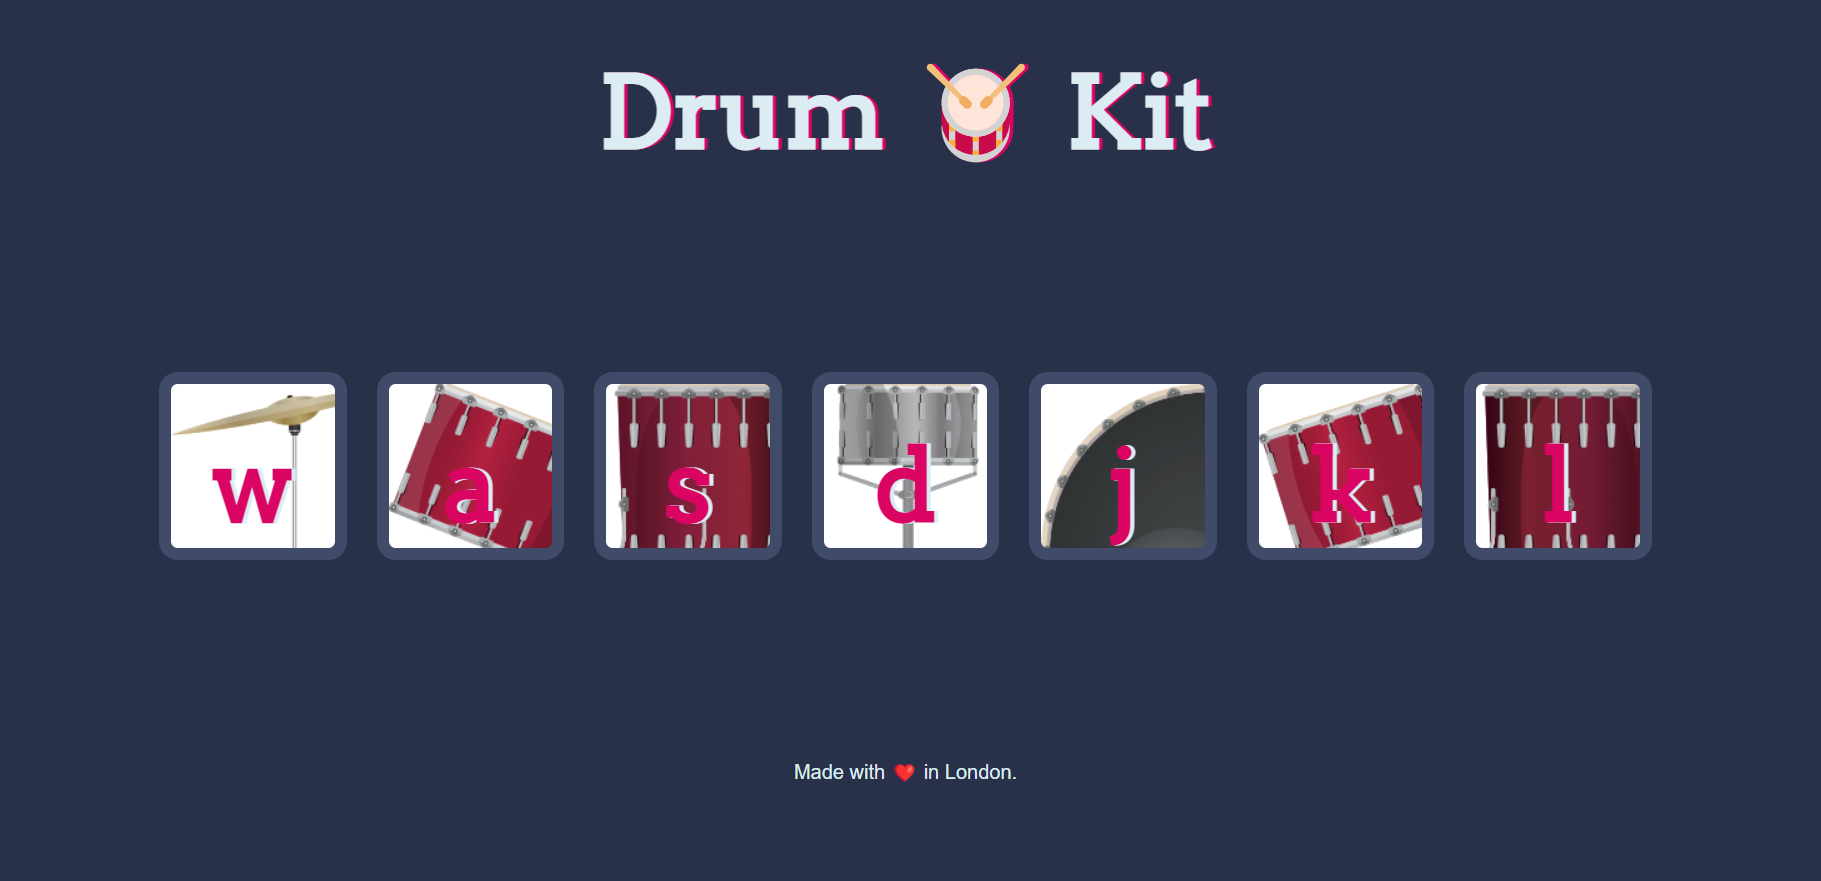
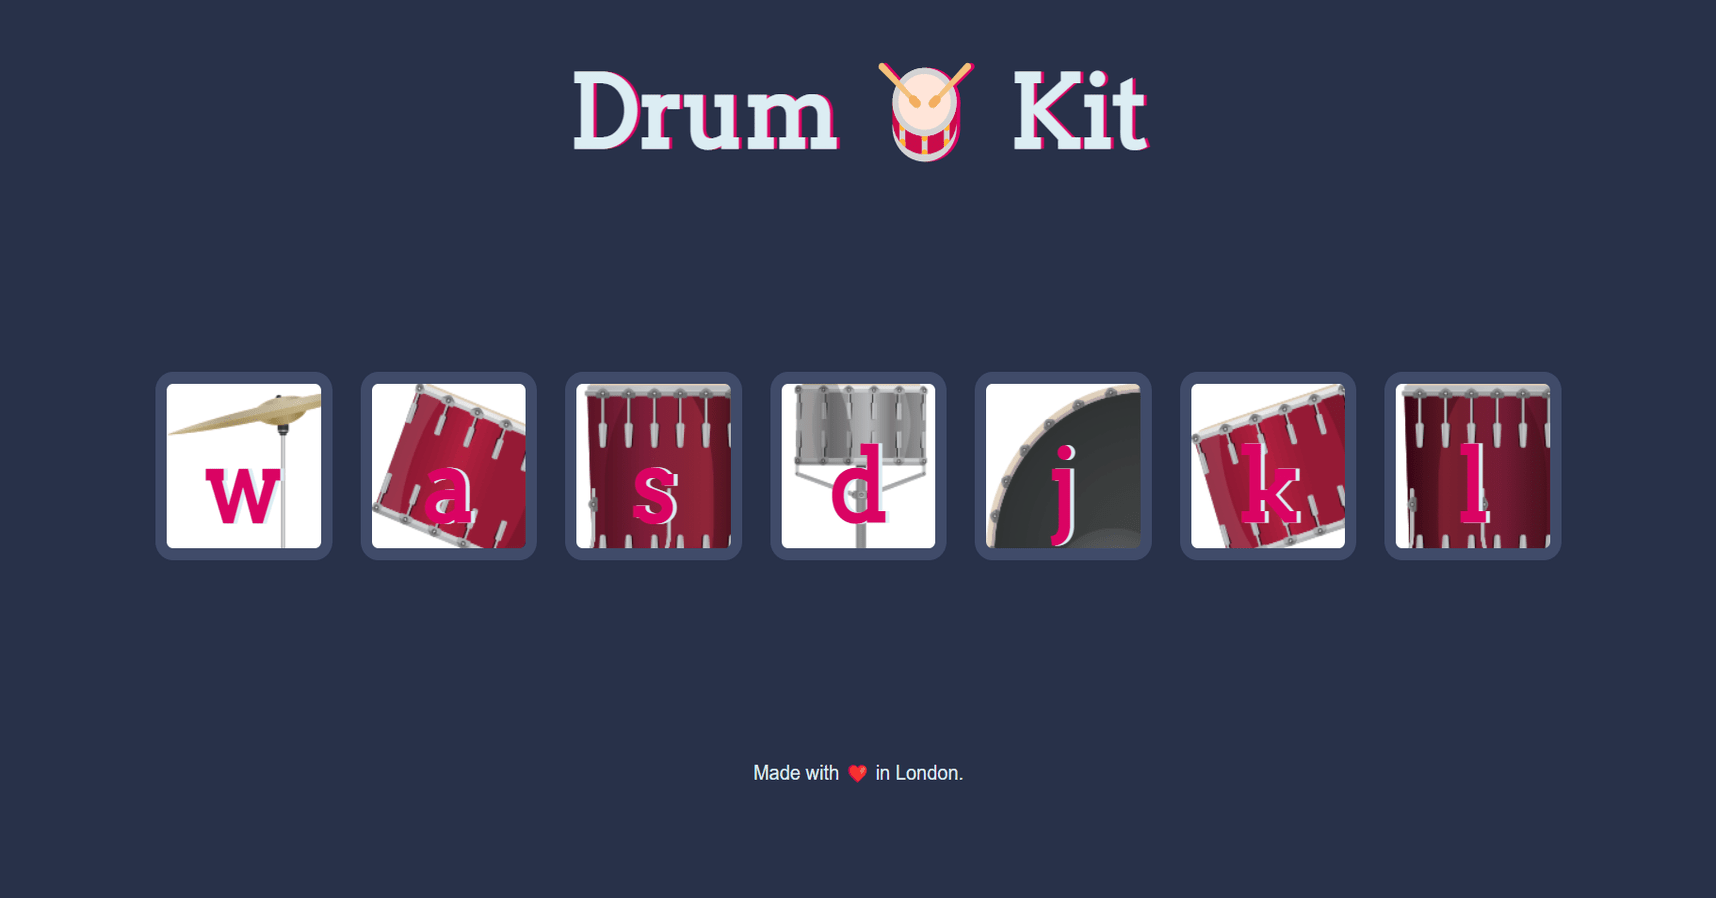
Adjusted image sizes to be the same. Fixed card margins

Changed region(s): [[0.0927, 0.3984, 0.9266, 0.6436], [0.3089, 0.0613, 0.6795, 0.1839], [0.4324, 0.8275, 0.5559, 0.8888]]

diff --git a/index.html b/index.html
@@ -80,47 +80,48 @@
 
             <!--Projects Section-->
             <section id="projects" class="projects p-5">
+
                 <h2 class="sectionHeader">Browse Projects</h2>
                 <div class="container">
-                    <div class="row">
+                    <div class="row g-4">
                         <div class="col-md-12 col-xxl-6">
-                            <div class="card mx-auto">
+                            <div class="card">
                                 <img src="images/drumkit.png" class="card-img-top" alt="">
                                 <div class="card-body">
-                                    <h5 class="card-title">test</h5>
+                                    <h5 class="card-title">Soundboard</h5>
                                     <p class="card-text">test</p> 
                                 </div>
                                 <div class="projectButtons">
                                     <button class="projectBtn btn btn-primary">Live</button>
-                                    <button class="projectBtn secondaryPrjBtn btn btn-outline-secondary">Code</button>
+                                    <button class="projectBtn  btn btn-outline-secondary">Code</button>
                                 </div>
                             </div>
                         </div>
                         <div class="col-md-12 col-xxl-6">
-                            <div class="card mx-auto">
+                            <div class="card">
                                 <img src="images/SimonGame.png" class="card-img-top" alt="">
                                 <div class="card-body">
-                                    <h5 class="card-title">test</h5>
+                                    <h5 class="card-title">Simon Says Game</h5>
                                     <p class="card-text">test</p>
                                 </div>
                                 <div class="projectButtons">
                                     <button class="projectBtn btn btn-primary">Live</button>
-                                    <button class="projectBtn secondaryPrjBtn btn btn-outline-secondary">Code</button>
+                                    <button class="projectBtn  btn btn-outline-secondary">Code</button>
                                 </div>
                             </div>
                         </div>
                     </div>
-                    <div class="row">
+                    <div class="row g-4">
                         <div class="col-md-12 col-xxl-6">
                             <div class="card mx-auto">
                                 <img src="images/TinDog.png" class="card-img-top" alt="">
                                 <div class="card-body">
-                                    <h5 class="card-title">test</h5>
+                                    <h5 class="card-title">TinDog</h5>
                                     <p class="card-text">test</p>
                                 </div>
                                 <div class="projectButtons">
                                     <button class="projectBtn btn btn-primary">Live</button>
-                                    <button class="projectBtn secondaryPrjBtn btn btn-outline-secondary">Code</button>
+                                    <button class="projectBtn  btn btn-outline-secondary">Code</button>
                                 </div>
                             </div>
                         </div>
@@ -133,12 +134,13 @@
                                 </div>
                                 <div class="projectButtons">
                                     <button class="projectBtn btn btn-primary">Live</button>
-                                    <button class="projectBtn secondaryPrjBtn btn btn-outline-secondary">Code</button>
+                                    <button class="projectBtn  btn btn-outline-secondary">Code</button>
                                 </div>
                             </div>
                         </div>
                     </div>
                 </div>
+
             </section>
         </div>
     </main>
@@ -163,11 +165,11 @@
                 </div>
                 <div class="links col-6">
                     <ul>
-                        <li><a href="#home">  Home </a></li>
-                        <li><a href="#">  Resume </a></li>
-                        <li><a href="#aboutMe">  About Me </a></li>
-                        <li><a href="#projects">  Projects </a></li>
-                        <li><a href="#footer">  Contact Me </a></li>
+                        <li><a href="#home"> > Home </a></li>
+                        <li><a href="#"> > Resume </a></li>
+                        <li><a href="#aboutMe"> > About Me </a></li>
+                        <li><a href="#projects"> > Projects </a></li>
+                        <li><a href="#footer"> > Contact Me </a></li>
                     </ul>    
                 </div>
                 

diff --git a/stylesheet.css b/stylesheet.css
@@ -134,31 +134,7 @@ a > i { /*Social Media icons*/
     background-color: #CDD1EA;
     text-align: center;
 }
-/* .projectCard {
-    padding: 2% 0 2% 0;
-    margin: 5% 5%;
-    background-color: #8F97C4ed;
-    border-radius: 10px drop-shadow;
-    border: solid 2px;
-    font-size: 1.25rem;
-} 
- .projectInfo{
-    text-align: left;
-}
- .projectButtons { UNCOMMENT OR DELETE WHEN YOU FIGURE OUT BOOTSTRAP5 CARDS
-    position: relative;
-    width: 80%;
-    margin: auto;
-}
-.projectBtn { 
-    padding: 2% 7% 2% 7%;
-    margin: 5% 3%;
-    font-size: 1.25rem;
-} */  
-.secondaryPrjBtn {
-    color: black;
-    border-color: white;
-}
+
 /*Footer Section*/
 .black-section{
     background-color: #090909;
@@ -193,6 +169,7 @@ div.links > ul > li > a:hover {
     position: relative;
     line-height: 3rem;
     font-size: 1.15rem;
+    padding: 0;
 }
 
 /*Mobile Queries*/
